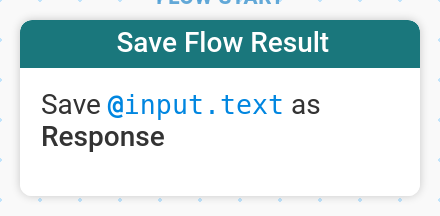
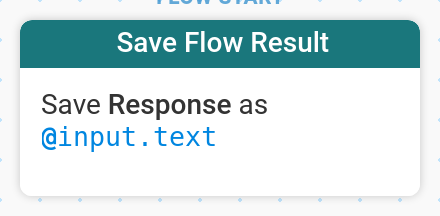
Reorder Save Flow Result canvas node to show name first
Update the Save Flow Result action render to display the result name first (bold),
followed by the value, matching the pattern used by Update Field. This improves
consistency across action nodes.

Changed region(s): [[0.2364, 0.4167, 0.7386, 0.5556], [0.0886, 0.5833, 0.5023, 0.6944]]

diff --git a/src/flow/actions/set_run_result.ts b/src/flow/actions/set_run_result.ts
@@ -10,9 +10,9 @@ export const set_run_result: ActionConfig = {
   flowTypes: [FlowTypes.VOICE, FlowTypes.MESSAGE, FlowTypes.BACKGROUND],
   render: (_node: Node, action: SetRunResult) => {
     return renderClamped(
-      html`Save ${renderHighlightedText(action.value, true)} as
-        <strong>${action.name}</strong>`,
-      `Save ${action.value} as ${action.name}`
+      html`Save <strong>${action.name}</strong> as
+        ${renderHighlightedText(action.value, true)}`,
+      `Save ${action.name} as ${action.value}`
     );
   },
   form: {
